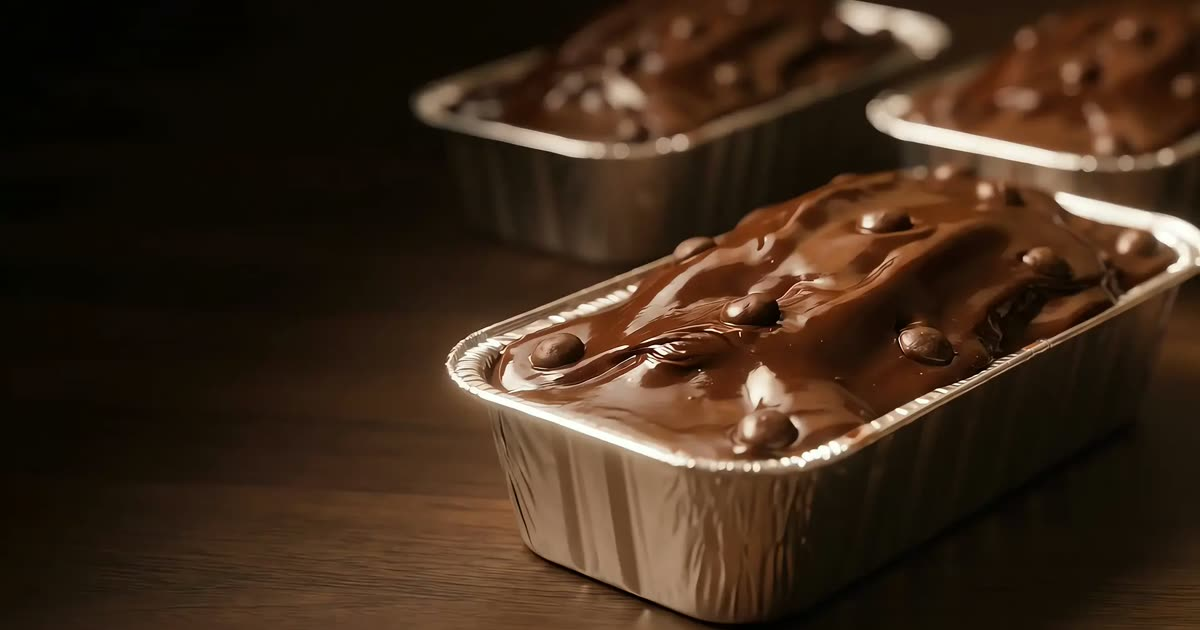
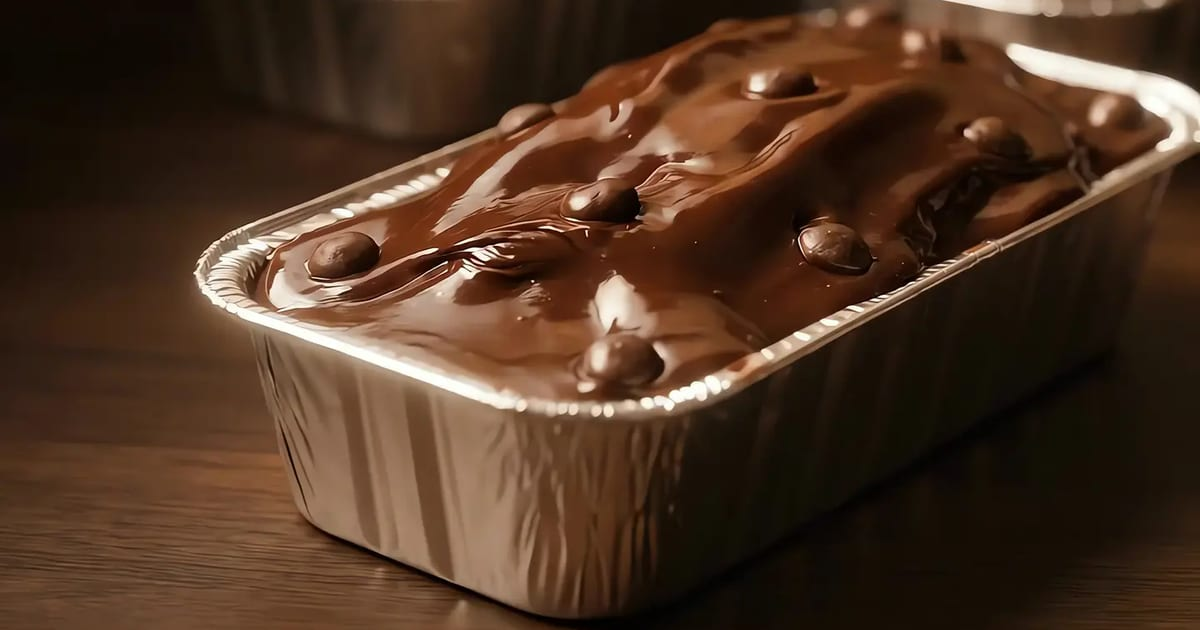
feat(seo): prévia de link, metas, JSON-LD, sitemap/robots e guia de lançamento

diff --git a/jhess-site/src/lib/seo.ts b/jhess-site/src/lib/seo.ts
@@ -1,0 +1,46 @@
+// Dados estruturados da home (JSON-LD, schema.org/Bakery), montados de src/data/site.ts e do cardápio.
+// Endereço só com cidade, estado e país: rua e número nunca entram no repositório (AGENTS.md).
+// Sem aggregateRating, review ou nota: os depoimentos do site não são avaliações verificáveis e ficam fora daqui.
+import { formatarPreco, precosDe, produtos } from '../data/cardapio.ts';
+import { contato, marca, redes } from '../data/site.ts';
+import { urlAbsoluta } from './absoluta.ts';
+import { url } from './url.ts';
+
+const diasSchema = ['Sunday', 'Monday', 'Tuesday', 'Wednesday', 'Thursday', 'Friday', 'Saturday'];
+
+/** "+55 94 98108-0336", a partir de contato.whatsapp (DDI + DDD + número, só dígitos). */
+export function telefoneInternacional(digitos = contato.whatsapp) {
+  const d = digitos.replace(/\D/g, '');
+  return `+${d.slice(0, 2)} ${d.slice(2, 4)} ${d.slice(4, -4)}-${d.slice(-4)}`;
+}
+
+/** "R$ 30 – R$ 150": do menor ao maior preço entre os produtos disponíveis; undefined se nenhum tiver preço. */
+export function faixaDePrecos(lista = produtos) {
+  const precos = lista.filter((p) => p.disponivel).flatMap(precosDe);
+  if (!precos.length) return undefined;
+  return `${formatarPreco(Math.min(...precos))} – ${formatarPreco(Math.max(...precos))}`;
+}
+
+/** `site` é Astro.site (SITE_URL); `imagem` já vem com o caminho do build (src do getImage). */
+export function dadosEstruturados({ site, imagem }: { site?: URL | string; imagem: string }) {
+  const faixa = faixaDePrecos();
+  return {
+    '@context': 'https://schema.org',
+    '@type': 'Bakery',
+    name: marca.nome,
+    url: urlAbsoluta(url('/'), site),
+    image: urlAbsoluta(imagem, site),
+    telephone: telefoneInternacional(),
+    ...(redes.instagram && { sameAs: [redes.instagram] }),
+    address: { '@type': 'PostalAddress', addressLocality: contato.cidade, addressRegion: contato.estado, addressCountry: 'BR' },
+    areaServed: { '@type': 'City', name: contato.cidade },
+    openingHoursSpecification: [{
+      '@type': 'OpeningHoursSpecification',
+      dayOfWeek: contato.atendimento.dias.map((d) => diasSchema[d]),
+      opens: contato.atendimento.horario.abre,
+      closes: contato.atendimento.horario.fecha,
+    }],
+    hasMenu: urlAbsoluta(url('/pedido/'), site),
+    ...(faixa && { priceRange: faixa }),
+  };
+}

diff --git a/jhess-site/src/data/site.ts b/jhess-site/src/data/site.ts
@@ -13,18 +13,31 @@ export const seo = {
   titulo: `${marca.nome} · Confeitaria artesanal em Marabá`,
   descricao: 'Bolos, pães e doces sem glúten e sem leite, feitos à mão em Marabá.',
   idioma: 'pt-BR',
+  // barra do navegador no celular (<meta name="theme-color">): meta tag não lê variável CSS, então os valores
+  // repetem o --bg de src/styles/tokens.css (modo dia e modo noite). Mudou o token, mude aqui.
+  corTema: { dia: '#F6EFE4', noite: '#140D0A' },
 } as const;
 
 // Endereço completo (rua, quadra, lote) NÃO entra no repositório: só o bairro; o resto é combinado no WhatsApp.
+// Horário de atendimento em HH:MM: os textos ("das 8h às 18h") e o JSON-LD da home saem daqui.
+const horario = { abre: '08:00', fecha: '18:00' };
+const hora = (hhmm: string) => `${Number(hhmm.slice(0, 2))}h${hhmm.endsWith(':00') ? '' : hhmm.slice(3)}`;
+
 export const contato = {
   whatsapp: '5594981080336', // DDI + DDD, só dígitos
   whatsappExibicao: '(94) 98108-0336',
   instagram: 'jhessica.em.cozinha.saudavel', // sem @
   bairroRetirada: 'Cidade Jardim',
   cidade: 'Marabá',
+  estado: 'PA',
   retirada: { dias: [1, 2, 3, 4, 5], texto: 'Retirada de segunda a sexta, com horário combinado' },
   // dias como em Date.getDay(): 0 = domingo … 6 = sábado
-  atendimento: { dias: [1, 2, 3, 4, 5], texto: 'Segunda a sexta, das 8h às 18h', textoCurto: 'Seg a sex · 8h às 18h' },
+  atendimento: {
+    dias: [1, 2, 3, 4, 5],
+    horario,
+    texto: `Segunda a sexta, das ${hora(horario.abre)} às ${hora(horario.fecha)}`,
+    textoCurto: `Seg a sex · ${hora(horario.abre)} às ${hora(horario.fecha)}`,
+  },
 };
 
 // Links das redes; string vazia se o contato faltar (o rodapé mostra o ícone desabilitado).

diff --git a/jhess-site/src/pages/sitemap.xml.ts b/jhess-site/src/pages/sitemap.xml.ts
@@ -1,0 +1,16 @@
+// /sitemap.xml · só as páginas que devem aparecer no Google: a home e o /pedido.
+// Ficam fora: /p/{id} (prévias de link, com noindex), a 404 e o /design-system (que nem existe no build).
+// Com PUBLIC_NOINDEX=true (deploy de teste) sai vazio: nada do teste deve ir para o Google.
+// URLs absolutas a partir de SITE_URL (Astro.site) e do `base`. Sem SITE_URL (build local), usa localhost só para não
+// quebrar o build; em produção SITE_URL é obrigatório (docs/LANCAMENTO.md).
+import type { APIRoute } from 'astro';
+import { url } from '../lib/url';
+
+const paginas = import.meta.env.PUBLIC_NOINDEX === 'true' ? [] : ['/', '/pedido/'];
+
+export const GET: APIRoute = ({ site }) => {
+  const base = site ?? 'http://localhost:4321';
+  const itens = paginas.map((p) => `  <url><loc>${new URL(url(p), base).href}</loc></url>\n`).join('');
+  const xml = `<?xml version="1.0" encoding="UTF-8"?>\n<urlset xmlns="http://www.sitemaps.org/schemas/sitemap/0.9">\n${itens}</urlset>\n`;
+  return new Response(xml, { headers: { 'Content-Type': 'application/xml; charset=utf-8' } });
+};

diff --git a/jhess-site/src/pages/robots.txt.ts b/jhess-site/src/pages/robots.txt.ts
@@ -1,0 +1,14 @@
+// /robots.txt · em produção libera o rastreio e aponta para o sitemap. Com PUBLIC_NOINDEX=true (deploy de teste) libera
+// também, mas sem sitemap: um "Disallow: /" impediria o Google de abrir as páginas e ler o <meta name="robots"
+// content="noindex"> do BaseLayout, e uma URL linkada em outro lugar poderia entrar no índice só com o endereço.
+// É o noindex das páginas que mantém o teste fora do Google. (O Google só lê robots.txt na raiz do domínio; no GitHub
+// Pages de teste, em subpasta, este arquivo nem vale.)
+import type { APIRoute } from 'astro';
+import { url } from '../lib/url';
+
+export const GET: APIRoute = ({ site }) => {
+  const texto = import.meta.env.PUBLIC_NOINDEX === 'true'
+    ? 'User-agent: *\nAllow: /\n'
+    : `User-agent: *\nAllow: /\n\nSitemap: ${new URL(url('/sitemap.xml'), site ?? 'http://localhost:4321').href}\n`;
+  return new Response(texto, { headers: { 'Content-Type': 'text/plain; charset=utf-8' } });
+};

diff --git a/jhess-site/docs/LANCAMENTO.md b/jhess-site/docs/LANCAMENTO.md
@@ -1,0 +1,79 @@
+# Lançamento no Cloudflare Pages
+
+Passo a passo para colocar o site no ar com domínio próprio. Hoje existe só o deploy de teste no GitHub Pages
+(https://jontinhaa.github.io/jhessica-site1/, fora do Google).
+
+> **Pendente:** a cliente ainda vai escolher o domínio. Onde aparece `<domínio>` (por exemplo `jhessicaemcozinha.com.br`),
+> troque pelo escolhido.
+
+## 1. Criar o projeto no Cloudflare Pages
+
+1. Crie a conta em https://dash.cloudflare.com (o plano gratuito permite uso comercial).
+2. **Workers e Pages → Criar → Pages → Conectar ao Git** e escolha o repositório **`jontinhaa/jhessica-site1`**.
+   É o que o `npm run publicar:teste` atualiza: só a pasta do site, sem o vídeo master e sem o e-mail pessoal no histórico.
+   O site fica na raiz desse repositório.
+3. Configuração de build:
+
+| Campo | Valor |
+| --- | --- |
+| Branch de produção | `main` |
+| Predefinição de framework | Astro |
+| Comando de build | `npm run build` |
+| Pasta de saída | `dist` |
+| Diretório raiz | (vazio) |
+
+4. **Variáveis de ambiente** (Configurações → Variáveis e segredos, ambiente **Produção**):
+
+| Variável | Valor |
+| --- | --- |
+| `NODE_VERSION` | `22` |
+| `SITE_URL` | `https://<domínio>` |
+| `BASE_PATH` | `/` |
+
+   **Não** crie `PUBLIC_NOINDEX` em produção. Com ela, o site inteiro sai do Google: as páginas recebem `noindex`, o
+   sitemap sai vazio e o robots.txt deixa de apontar para ele.
+
+5. Salve e faça o primeiro deploy. O Cloudflare dá um endereço `*.pages.dev` para conferir antes do domínio.
+
+> Depois do lançamento, cada `npm run publicar:teste` atualiza **também a produção**, porque é o mesmo repositório.
+> O GitHub Pages de teste continua recebendo o mesmo push.
+
+## 2. Apontar o domínio do registro.br para o Cloudflare
+
+1. No Cloudflare: **Adicionar site** → digite `<domínio>` → plano **Free**. Ele mostra **dois servidores DNS**
+   (algo como `xxx.ns.cloudflare.com`).
+2. No https://registro.br: entre na conta → clique no domínio → **DNS → Alterar servidores DNS** → cole os dois
+   servidores do Cloudflare → salve.
+3. Espere o Cloudflare marcar o domínio como **Ativo**. Costuma levar menos de uma hora, mas pode chegar a 24 h.
+4. No projeto do Pages: **Domínios personalizados → Configurar** → adicione `<domínio>` e também `www.<domínio>`.
+   O Cloudflare cria os registros DNS e o certificado HTTPS sozinho.
+
+## 3. Web Analytics (sem código)
+
+No projeto do Pages: **Métricas → Web Analytics → Ativar**. O Cloudflare injeta o script no deploy, sem mexer no código.
+Ele não usa cookies nem guarda dado pessoal, por isso não precisa de aviso de cookies.
+
+## 4. Google Search Console
+
+1. Em https://search.google.com/search-console → **Adicionar propriedade → Domínio** → `<domínio>`.
+2. O Google mostra um registro **TXT**. No Cloudflare: **DNS → Registros → Adicionar** → tipo `TXT`, nome `@`,
+   conteúdo colado do Google → salve.
+3. Volte ao Search Console e clique em **Verificar**. Se não verificar na hora, espere alguns minutos e tente de novo.
+4. **Sitemaps** → envie `https://<domínio>/sitemap.xml`. O sitemap tem só a home e o /pedido.
+
+## 5. Lista final antes de publicar
+
+Rode na pasta `jhess-site/`:
+
+- [ ] `npm run fotos`: nenhuma obrigatória faltando e **nenhuma provisória** (todas as `FONTES-PROVISORIAS.md` resolvidas).
+- [ ] `npm test`: tudo passando.
+- [ ] `npm run build`: build sem erro.
+- [ ] `npm audit`: nenhuma vulnerabilidade alta ou crítica.
+- [ ] **Número do WhatsApp real** em `src/data/site.ts` (`contato.whatsapp` e `whatsappExibicao`): mande uma mensagem de
+      teste pelo botão do site e confira que chega no celular da cliente.
+- [ ] **/design-system fora do build:** a pasta `dist/` não pode ter `design-system` (a rota só existe no `npm run dev`).
+- [ ] **Revisão das promessas** com a cliente: preços e prazos (`cardapio.ts`, `regrasPedido`), "sem glúten e sem leite na
+      receita", traços da cozinha, versões sem ovo, nada de "seguro para celíacos", Nossa história e depoimentos autorizados.
+- [ ] Variáveis de produção conferidas: `SITE_URL=https://<domínio>`, `BASE_PATH=/`, **sem** `PUBLIC_NOINDEX`.
+- [ ] Depois do deploy: `https://<domínio>/robots.txt` mostra `Allow: /` e a linha `Sitemap:`, e a prévia do link
+      aparece no WhatsApp (home e um `/p/{produto}`).

diff --git a/jhess-site/CLAUDE.md b/jhess-site/CLAUDE.md
@@ -35,12 +35,15 @@ src/
   data/perguntas.ts      perguntas frequentes; respostas montadas dos dados (regrasPedido, compromisso, conservacao, cardápio);
                          `pendente` oculta a pergunta
   scripts/checar-fotos.mjs  npm run fotos: confere as fotos esperadas
+  scripts/gerar-imagens-padrao.mjs  npm run imagens: refaz og-padrao.jpg (prévia de link) e public/apple-touch-icon.png
   components/pedido/     ProdutoCard (card .produto) e ProdutoPainel (<dialog> "Detalhes", um por produto, abre com
                          [data-abrir="{id}"] ou ?produto={id}; o voltar do navegador fecha)
   pages/p/[id].astro     uma página por produto (/p/{id}) só para a prévia do link (og:*), que redireciona ao /pedido?produto={id}
   scripts/compartilhar.ts  botão "Compartilhar" do card e do painel: folha nativa, senão copia (toast) e, se falhar, mostra o link num campo
   lib/pedido/compartilhar.ts  linkProduto, textoCompartilhar, dadosCompartilhar (puros, testados)
   lib/absoluta.ts        urlAbsoluta (og:image precisa de endereço absoluto; Astro.site vem de SITE_URL)
+  lib/seo.ts             JSON-LD da home (Bakery) a partir de site.ts e do cardápio; sem avaliação/nota (tests/seo.test.mjs)
+  pages/sitemap.xml.ts, pages/robots.txt.ts  endpoints estáticos: sitemap só com home e /pedido; com PUBLIC_NOINDEX, sitemap vazio e robots sem sitemap (o noindex das páginas é que segura)
   components/pedido/Sacola.astro  sacola em <dialog class="folha"> (comanda → como receber → enviado), barra do celular
   lib/pedido/            lógica pura e testada: itens (chave), precos (sempre do cardápio), prazos (datas), mensagem (WhatsApp)
   scripts/sacola.ts      estado da sacola no localStorage "jhessica:sacola:v1" (só itens e nome; endereço nunca)
@@ -116,7 +119,8 @@ src/
 - **Nossa história (`historia` em `site.ts`):** o texto vem do briefing (`.briefing/Briefing_Jhessica_em_Cozinha_Saudavel.docx`, seção 2) e está em primeira pessoa; revisar o texto com a cliente. A data da loja ("desde setembro de 2025") é fixa, sem calcular anos.
 - Ainda a confirmar com a cliente (TODO nos dados): **ingredientes e frase de descrição de cada produto** (ela vai mandar), textos de "O que entra" e o texto do depoimento da Karen.
   O numeral "0 conservantes" é fixo no componente e também precisa de confirmação.
-- **Prévia do link (/p/{id}) usa a imagem padrão `src/assets/images/og-padrao.jpg`** (1200×630, recorte do poster da hero; será a OG padrão do site) enquanto os produtos não têm `capa`: trocar quando as fotos reais chegarem.
+- **Domínio de produção ainda não escolhido** (a cliente vai decidir): `<domínio>` em `docs/LANCAMENTO.md` e o `SITE_URL` do Cloudflare Pages dependem dele.
+- **Prévia de link padrão `src/assets/images/og-padrao.jpg`** (1200×630, gerada por `npm run imagens` a partir do poster da hero, com a forma no centro para o recorte quadrado do WhatsApp): vale na home, no /pedido, na 404 e nos /p/{id} de produto sem `capa`.
 - Endereço completo de retirada NUNCA entra no repositório: só o bairro (contato.bairroRetirada).
 - **Fotos provisórias** (listadas nos `FONTES-PROVISORIAS.md` de cada pasta; `npm run fotos` cobra): vitrine (brigadeiros,
   bento), Bento (destaque e modelos; a foto de agora é um bolo redondo com frutas, não um bento), Bento Cake (capa e corte)

diff --git a/AGENTS.md b/AGENTS.md
@@ -13,8 +13,8 @@ Regras deste projeto para qualquer agente (Claude Code, Codex, Antigravity). O `
 
 - Astro 7 (estático), TypeScript, CSS próprio com tokens (modo dia e noite), ícones Iconify
 - App em: `jhess-site/` (os comandos rodam lá)
-- Hospedagem: GitHub Pages de teste (https://jontinhaa.github.io/jhessica-site1/), deploy por `jhess-site/.github/workflows/deploy.yml`; produção.
-- Usaremos a vercel futuramente para publicar de fato e usar um domínio .com
+- Hospedagem: GitHub Pages de teste (https://jontinhaa.github.io/jhessica-site1/), deploy por `jhess-site/.github/workflows/deploy.yml`.
+- Produção: Cloudflare Pages com domínio próprio (passo a passo em `jhess-site/docs/LANCAMENTO.md`). A Vercel saiu porque o plano gratuito dela não permite uso comercial.
 
 ## Comandos
 
